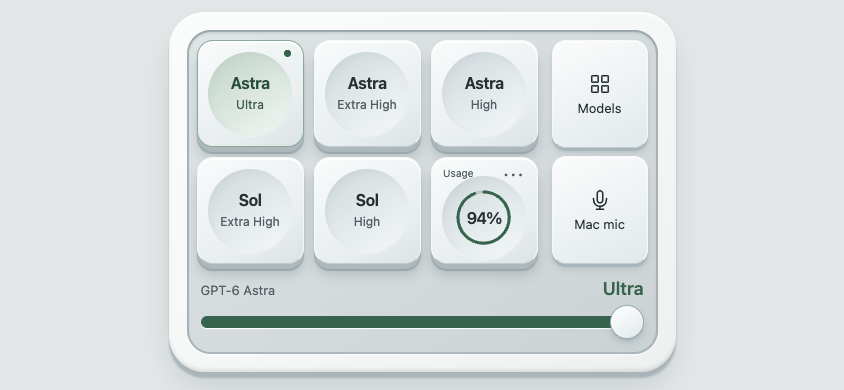
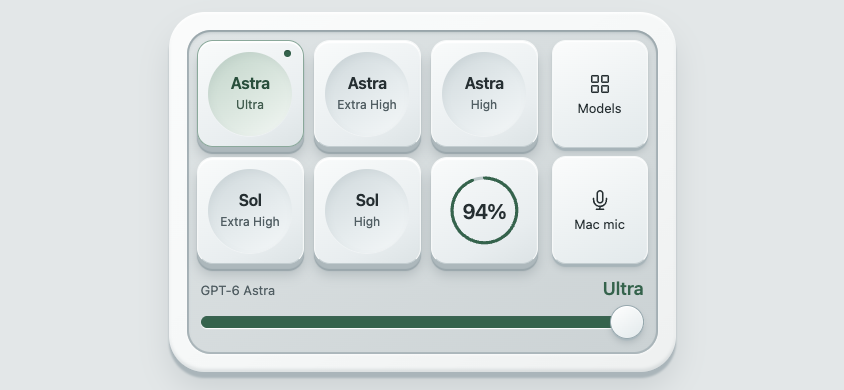
Simplify usage key and expose customizable button settings

Changed region(s): [[0.5237, 0.4308, 0.6161, 0.6154], [0.5545, 0.6154, 0.5853, 0.6462]]

diff --git a/Sources/CodexUsageWeb/Resources/deck.css b/Sources/CodexUsageWeb/Resources/deck.css
@@ -75,7 +75,6 @@ h1, h2, p { margin: 0; }
 .catalog-name { font-size: clamp(.8125rem, 11cqw, 1.25rem); line-height: 1.35; font-weight: 600; overflow-wrap: anywhere; }
 .catalog-key[aria-pressed="true"] .catalog-name { color: #294f3c; }
 .catalog-key[aria-pressed="true"]::after { content: ""; position: absolute; right: 9px; top: 9px; width: 6px; height: 6px; border-radius: 50%; background: var(--green); }
-.key-top { position: absolute; top: 9%; left: 11%; right: 11%; display: flex; align-items: center; justify-content: space-between; gap: 5px; color: var(--secondary); font-size: clamp(.625rem, 7cqw, .875rem); font-variant-numeric: tabular-nums; }
 .key-led { position: absolute; top: 9%; right: 11%; width: 7px; height: 7px; border-radius: 50%; visibility: hidden; }
 .key-model { max-width: 100%; font-size: clamp(1rem, 15cqw, 2.125rem); line-height: 1.15; font-weight: 650; letter-spacing: -.025em; overflow-wrap: anywhere; display: -webkit-box; -webkit-line-clamp: 2; -webkit-box-orient: vertical; overflow: hidden; }
 .key-effort { color: var(--secondary); font-size: clamp(.75rem, 9cqw, 1.0625rem); line-height: 1.3; font-weight: 450; margin-top: 5px; overflow-wrap: anywhere; }
@@ -90,15 +89,14 @@ h1, h2, p { margin: 0; }
 .deck-key[aria-busy="true"]:disabled { opacity: 1; }
 .deck-surface[data-applying="true"] .deck-key:disabled, .deck-surface[data-applying="true"] .dock-button:disabled { opacity: 1; cursor: wait; }
 .deck-key:active:not(:disabled) { box-shadow: 0 2px 1px #adb8bc, 0 3px 1px #98a5aa, 0 5px 7px #40505738, inset 0 2px 1px #fff; }
-.usage-key { padding-top: 22%; }
-.settings-icon { font-size: 1.3rem; line-height: .5; letter-spacing: 2px; }
-.usage-dial { position: relative; width: 68%; aspect-ratio: 1; flex-shrink: 0; }
+.usage-key::before { display: none; }
+.usage-dial { position: relative; width: 86%; aspect-ratio: 1; flex-shrink: 0; }
 .usage-dial svg { display: block; width: 100%; height: 100%; overflow: visible; transform: rotate(-90deg); }
-.usage-dial circle { fill: none; stroke-width: 6; }
+.usage-dial circle { fill: none; stroke-width: 5; }
 .ring-track { stroke: #bbc7c8; }
 .ring-value { stroke: var(--key-accent); stroke-linecap: round; }
 .usage-reading { position: absolute; inset: 0; display: flex; align-items: center; justify-content: center; flex-direction: column; }
-#usage-value { font-size: clamp(1rem, 19cqw, 2.75rem); line-height: 1.15; font-weight: 600; letter-spacing: -.04em; font-variant-numeric: tabular-nums; }
+#usage-value { font-size: clamp(1.25rem, 24cqw, 3rem); line-height: 1.15; font-weight: 600; letter-spacing: -.04em; font-variant-numeric: tabular-nums; }
 .usage-key[data-level="low"] { --key-accent: var(--error); }
 .usage-key[data-level="medium"] { --key-accent: var(--warm); }
 .usage-key[data-level="unknown"] .ring-value { visibility: hidden; }

diff --git a/Sources/CodexUsage/main.swift b/Sources/CodexUsage/main.swift
@@ -211,19 +211,15 @@ final class AppDelegate: NSObject, NSApplicationDelegate {
             menu.addItem(item)
         }
         add(menu, "Enable Direct Switching…", #selector(openDirectSwitching))
-        let presetMenu = NSMenu(title: "Model Presets")
-        presetMenu.autoenablesItems = false
-        add(presetMenu, "Edit Presets…", #selector(editPresets))
-        add(presetMenu, "Reload Presets", #selector(reloadPresets))
+        let editSettings = add(menu, "Edit Button Settings…", #selector(editPresets))
+        editSettings.toolTip = "Open presets.json to edit button names, models, reasoning levels and numbered shortcut mappings."
+        add(menu, "Reload Button Settings", #selector(reloadPresets))
         if let error = presets.error {
             let item = NSMenuItem(title: "Presets error — previous settings kept", action: #selector(showPresetError), keyEquivalent: "")
             item.target = self
             item.toolTip = error
-            presetMenu.addItem(item)
+            menu.addItem(item)
         }
-        let presetSettings = NSMenuItem(title: "Model Presets", action: nil, keyEquivalent: "")
-        presetSettings.submenu = presetMenu
-        menu.addItem(presetSettings)
         add(menu, webDeck.server.isRunning ? "Web Deck · Running…" : "Web Deck…", #selector(openWebDeck))
         menu.addItem(.separator())
         let launch = add(menu, "Launch at Login", #selector(toggleLaunchAtLogin))
@@ -289,7 +285,9 @@ final class AppDelegate: NSObject, NSApplicationDelegate {
     @objc private func editPresets() {
         presets.reload()
         if FileManager.default.fileExists(atPath: presets.url.path) {
-            NSWorkspace.shared.open(presets.url)
+            if !NSWorkspace.shared.open(presets.url) {
+                showAlert("Open button settings", "Open this file in a text editor: \(presets.url.path)")
+            }
         } else { showPresetError() }
         render()
     }
@@ -323,7 +321,9 @@ final class AppDelegate: NSObject, NSApplicationDelegate {
         var payload: [String: Any] = [
             "connected": false, "busy": switching,
             "presets": presets.configuration.presets.sorted(by: { $0.slot < $1.slot }).map {
-                ["slot": $0.slot, "model": $0.model, "effort": $0.effort.rawValue, "title": $0.title] as [String: Any]
+                var preset: [String: Any] = ["slot": $0.slot, "model": $0.model, "effort": $0.effort.rawValue, "title": $0.title]
+                if let label = $0.label { preset["label"] = label }
+                return preset
             }
         ]
         if let snapshot = latestSnapshot {

diff --git a/Sources/CodexUsageWeb/Resources/deck.js b/Sources/CodexUsageWeb/Resources/deck.js
@@ -23,9 +23,10 @@
       const match = /^GPT[- ](\d+(?:\.\d+)?) (Astra|Sol|Luna|Terra)$/i.exec(full);
       return { full, version: match?.[1], family: match?.[2] };
     });
-    return names.map(name => {
+    return names.map((name, index) => {
       const ambiguous = name.family && names.some(other => other.family?.toLowerCase() === name.family.toLowerCase() && other.version !== name.version);
-      return { full: name.full, short: name.family ? name.family + (ambiguous ? ` ${name.version}` : "") : name.full };
+      const label = typeof presets[index].label === "string" ? presets[index].label.trim() : "";
+      return { full: name.full, short: label || (name.family ? name.family + (ambiguous ? ` ${name.version}` : "") : name.full) };
     });
   }
 
@@ -619,7 +620,8 @@
       byID("usage-value").textContent = value;
       byID("usage-ring").setAttribute("stroke-dasharray", `${percent ?? 0} 100`);
       usageKey.dataset.level = percent === null ? "unknown" : percent < 10 ? "low" : percent < 25 ? "medium" : "normal";
-      usageKey.setAttribute("aria-label", `${percent === null ? "Usage unavailable" : `${value} remaining`}. Open deck controls`);
+      usageKey.setAttribute("aria-label", `${percent === null ? "Usage unavailable" : `Usage: ${value} remaining`}. Open usage details`);
+      usageKey.title = percent === null ? "Usage unavailable" : `${value} Codex usage remaining`;
       let message = feedback?.tone !== "success" ? feedback?.message : "";
       if (!message && phase === "offline") message = "Connection lost. Reconnecting…";
       if (!message && phase === "unavailable") message = snapshot?.message || "Open a Codex chat and enable Direct Switching on your Mac.";
@@ -641,7 +643,7 @@
           const name = labels[index];
           const effort = effortLabels[preset.effort] || preset.effort;
           button.append(led, status, element("span", "key-model", name.short), element("span", "key-effort", effort));
-          button.setAttribute("aria-label", `${preset.slot}: ${name.full}, ${effort}`);
+          button.setAttribute("aria-label", `${preset.slot}: ${name.short === name.full ? name.full : `${name.short}, ${name.full}`}, ${effort}`);
           button.title = `${preset.title || `${name.full} · ${effort}`} (⌘⌃${preset.slot})`;
           button.addEventListener("click", () => void controller.applyPreset(preset));
           return { button, status, preset };

diff --git a/Sources/CodexUsageWeb/Resources/index.html b/Sources/CodexUsageWeb/Resources/index.html
@@ -18,8 +18,7 @@
     <div class="deck-surface" data-activity="off" aria-describedby="activity-announcement">
     <div id="key-surface" class="key-surface" data-view="presets">
     <div id="presets" class="deck-grid" aria-label="Model presets and usage" aria-busy="true">
-      <button id="usage-key" type="button" class="deck-key usage-key" aria-label="Usage unavailable. Open deck controls" aria-haspopup="dialog">
-        <span class="key-top"><span>Usage</span><span class="settings-icon" aria-hidden="true">···</span></span>
+      <button id="usage-key" type="button" class="deck-key usage-key" aria-label="Usage unavailable. Open usage details" aria-haspopup="dialog">
         <span class="usage-dial">
           <svg viewBox="0 0 120 120" aria-hidden="true"><circle class="ring-track" cx="60" cy="60" r="52"/><circle id="usage-ring" class="ring-value" cx="60" cy="60" r="52" pathLength="100" stroke-dasharray="0 100"/></svg>
           <span class="usage-reading"><span id="usage-value">—</span></span>
@@ -65,7 +64,7 @@
     <p id="requests-status" class="secondary" role="status"></p>
   </dialog>
   <dialog id="controls" aria-labelledby="controls-title">
-    <div class="dialog-heading"><h2 id="controls-title">Deck controls</h2><button id="close-controls" type="button" aria-label="Close controls">×</button></div>
+    <div class="dialog-heading"><h2 id="controls-title">Usage</h2><button id="close-controls" type="button" aria-label="Close usage details">×</button></div>
     <p id="connection-label" class="secondary">Connecting</p>
     <p class="field-label">Active chat</p><p id="target-title">Waiting for Codex…</p>
     <p id="chat-activity" class="secondary">No connected chat</p>

diff --git a/Tests/CodexUsageTests/ModelPresetTests.swift b/Tests/CodexUsageTests/ModelPresetTests.swift
@@ -92,3 +92,28 @@ func powerAnnouncementConfirmsTheExactModelAndEffort() {
     #expect(PickerLabels.selection(in: ["6.1 Sol High", "6.1 Sol Extra High"], model: "GPT-6.1 Sol") == nil)
     #expect(PickerLabels.selection(in: ["GPT-6.1 Sol preview High"], model: "GPT-6.1 Sol") == nil)
 }
+
+@Test func customButtonLabelsRoundTripWithoutChangingModelOrShortcut() throws {
+    let data = try PresetConfiguration.defaults.encoded()
+    var object = try #require(JSONSerialization.jsonObject(with: data) as? [String: Any])
+    var rows = try #require(object["presets"] as? [[String: Any]])
+    rows[0]["label"] = "Focus"
+    object["presets"] = rows
+    let configuration = try PresetConfiguration.decode(JSONSerialization.data(withJSONObject: object))
+    #expect(configuration.presets[0].label == "Focus")
+    #expect(configuration.presets[0].model == "GPT-6 Astra")
+    #expect(configuration.presets[0].effort == .ultra)
+    #expect(configuration.presets[0].slot == 1)
+    #expect(configuration.presets[1].label == nil)
+    #expect(try PresetConfiguration.decode(configuration.encoded()) == configuration)
+}
+
+@Test(arguments: ["", " Focus", "Focus ", "Focus\nNow", "Focus\tNow", String(repeating: "x", count: 33)])
+func malformedButtonLabelsKeepTheConfigurationInvalid(_ label: String) throws {
+    var object = try #require(JSONSerialization.jsonObject(with: PresetConfiguration.defaults.encoded()) as? [String: Any])
+    var rows = try #require(object["presets"] as? [[String: Any]])
+    rows[0]["label"] = label
+    object["presets"] = rows
+    let data = try JSONSerialization.data(withJSONObject: object)
+    #expect(throws: PresetError.self) { try PresetConfiguration.decode(data) }
+}

diff --git a/Sources/CodexUsageCore/ModelPresets.swift b/Sources/CodexUsageCore/ModelPresets.swift
@@ -4,6 +4,14 @@ public struct ModelPreset: Codable, Equatable, Sendable {
     public let slot: Int
     public let model: String
     public let effort: ReasoningEffort
+    public let label: String?
+
+    public init(slot: Int, model: String, effort: ReasoningEffort, label: String? = nil) {
+        self.slot = slot
+        self.model = model
+        self.effort = effort
+        self.label = label
+    }
 
     public var title: String { "\(model) · \(effort.title)" }
 }
@@ -46,6 +54,13 @@ public struct PresetConfiguration: Codable, Equatable, Sendable {
             throw PresetError.invalid("Provide slots 1 through 5 exactly once. Legacy files with slots 1, 2, and 3 are upgraded automatically.")
         }
         for preset in config.presets {
+            if let label = preset.label {
+                guard !label.isEmpty, label.count <= 32,
+                      label == label.trimmingCharacters(in: .whitespacesAndNewlines),
+                      !label.unicodeScalars.contains(where: { CharacterSet.controlCharacters.contains($0) }) else {
+                    throw PresetError.invalid("Slot \(preset.slot): label must be 1–32 characters, without surrounding spaces or control characters. Omit label to use the model name.")
+                }
+            }
             guard !preset.model.trimmingCharacters(in: .whitespacesAndNewlines).isEmpty,
                   preset.model.count <= 120, !PickerLabels.normalized(preset.model).isEmpty,
                   !preset.model.contains(where: { $0.isNewline }),

diff --git a/README.md b/README.md
@@ -27,7 +27,7 @@ The deck also supports Mac dictation and responses to the active chat's supporte
 
 <img src="docs/app-menu.png" alt="Codex Deck menu grouping five shortcuts with separate preset settings and automatic launch options" width="560" />
 
-User-provided screenshot of the running 0.5.0 app, under its previous Codex-Usage name. All five shortcuts form one group; preset editing lives in a separate submenu. A single weekly quota is labeled `Usage` instead of `1w`.
+User-provided screenshot of the running 0.5.0 app, under its previous Codex-Usage name. All five shortcuts form one group. In the current app, **Edit Button Settings…** opens the JSON directly from the main menu; the older submenu shown here has been removed. A single weekly quota is labeled `Usage` instead of `1w`.
 
 ### Menu bar usage
 
@@ -47,7 +47,7 @@ User-provided screenshot of a weekly-only account: the green ring shows 94% rema
 
 <img src="docs/web-deck-questions.png" alt="A pending question with selectable answers and a request-specific text field" width="500" />
 
-Version 0.9.4, rendered with synthetic offline fixture data. These landscape, portrait, model catalog, slider, and question previews illustrate the interface; they are not photos of a phone controlling live Codex. The recording state, requests, and quota in these examples are simulated.
+Version 0.9.5, rendered with synthetic offline fixture data. These landscape, portrait, model catalog, slider, and question previews illustrate the interface; they are not photos of a phone controlling live Codex. The recording state, requests, and quota in these examples are simulated.
 
 ---
 
@@ -134,17 +134,17 @@ Turn off **Open Codex Automatically** to start only the usage companion. Turning
 2. Connect the Mac and phone to the **same trusted private Wi-Fi**. Keep the Mac awake and Codex Deck running.
 3. Choose **Web Deck… → Start Web Deck** in the Mac menu. This starts a small local HTTP server; it is off by default and does not start automatically at login.
 4. Scan the QR code with your phone, or choose **Copy Pairing Link** and open that complete link in the phone's browser. The bare IP address opens the page but does not pair a device.
-5. Tap **Usage** to review the active chat, close the controls, then tap a model key. The page uses the first five configured presets in slot order from the same `presets.json` as the keyboard shortcuts. A key turns green after the host confirms the selection.
+5. Tap the **percentage ring (Usage)** to review the active chat, close the details, then tap a model key. The page uses the first five configured presets in slot order from the same `presets.json` as the keyboard shortcuts. A key turns green after the host confirms the selection.
 6. The preset view uses **3 × 2 landscape** or **2 × 3 portrait**. The model catalog uses four columns in landscape and two in portrait. Five square model keys and a usage tile form a centered white-and-gray physical keypad, sized to fit the screen with the control strip. The effort slider stays directly below the keys. **Models / Presets**, **Mac mic**, and waiting **Requests** sit beside the keys in landscape or below the slider in portrait, without a page header.
 7. Tap **Usage → Enter full screen** in supported browsers. On iPhone, use Safari's **Share → Add to Home Screen** and open the saved deck; pair again if that standalone browser has a separate session.
 
 White keys have a recessed face, gray raised edge, short press effect, and an always-enabled click from a bundled audio file; there is no sound toggle. A supported-device vibration accompanies the press. Playback starts from your tap and does not run continuously. The page cannot override device volume, hardware mute, or browser audio restrictions. If you hear nothing, check the media volume and browser sound settings. Reduced-motion preferences disable key movement; unsupported sound, vibration, or fullscreen does not block the controls.
 
-Preset keys show the **model family prominently** and the **reasoning level beneath it**: `Astra / Ultra`, `Astra / Extra High`, `Astra / High`, `Sol / Extra High`, and `Sol / High`. There are no printed slot numbers or inactive indicator dots; only the selected key shows its small indicator. Full model names remain in **Models**, the slider, tooltips, and accessible labels. If your presets contain different versions of the same family, the keys include the version (`Sol 6`, `Sol 6.1`). Custom model names are preserved. These shorter labels do not change saved IDs, efforts, or keyboard mappings.
+Preset keys show the **model family prominently** and the **reasoning level beneath it**: `Astra / Ultra`, `Astra / Extra High`, `Astra / High`, `Sol / Extra High`, and `Sol / High`. There are no printed slot numbers or inactive indicator dots; only the selected key shows its small indicator. Full model names remain in **Models**, the slider, tooltips, and accessible labels. If your presets contain different versions of the same family, the keys include the version (`Sol 6`, `Sol 6.1`). Custom model names are preserved. These shorter labels do not change saved IDs, efforts, or keyboard mappings. Set an optional `label` in JSON to use your own button name, such as `Focus`; the reasoning level remains visible below it.
 
 The 0.9.1 tone has a soft attack and a rounded 180 ms tail. Rapid button presses can overlap briefly instead of cutting off the previous tone; the slider plays once on release rather than at every crossed step. The original sound can be regenerated with `python3 Scripts/generate_feedback_sound.py`.
 
-The sixth tile shows **remaining quota as a percentage only** inside its ring, with no “remaining” label underneath. It prioritizes the weekly window (otherwise the first available window). Tap **Usage** for full usage details and reset information. Missing or expired quota, or a lost connection, displays **—**. Connection and error notices appear only when needed.
+The sixth tile centers **remaining quota as a percentage only** inside a larger ring. It has no `Usage` caption, ellipsis, or “remaining” text. Tap anywhere on the tile for **Usage** details and reset information; button settings live in the Mac menu. It prioritizes the weekly window (otherwise the first available window). Missing or expired quota, or a lost connection, displays **—**. Connection and error notices appear only when needed.
 
 A pairing link expires after **5 minutes** and can be used **once**. Choose **New Pairing Link** for another device or an expired link; existing paired devices stay connected. Each paired browser session lasts up to **8 hours**. Keep pairing links private.
 
@@ -174,7 +174,7 @@ Tap **Models** to replace the preset keys with the active Codex composer’s mod
 
 The same button now reads **Presets**. Tap it, or press Escape, to return to your five saved combinations and usage ring. Returning changes only the view; it does not restore an earlier model or edit `presets.json`. There are no sets or pages to configure. The effort slider and Mac mic remain available in both views. Longer model catalogs scroll inside the deck.
 
-This changes the current chat, not `presets.json`. To make a choice one of the five permanent keys, use **Model Presets → Edit Presets…** on the Mac as described below.
+This changes the current chat, not `presets.json`. To make a choice one of the five permanent keys, use **Edit Button Settings…** on the Mac as described below.
 
 #### Use the Mac microphone
 
@@ -202,18 +202,18 @@ The phone connection is **HTTP on the local network**, not an Internet service. 
 | Refresh Usage | Scan local usage records immediately. |
 | Five model presets | Apply that preset to the current chat; Codex must be foreground. |
 | Enable Direct Switching… | Set up the connection by restarting Codex. |
-| Model Presets → Edit Presets… | Open the JSON configuration. |
-| Model Presets → Reload Presets | Read saved JSON and refresh the menu. |
+| Edit Button Settings… | Open JSON directly to edit button names, models, reasoning levels, and numbered mappings. |
+| Reload Button Settings | Read saved JSON and refresh the menu. |
 | Web Deck… | Start or stop phone access, show a pairing QR/link, and disconnect devices. |
 | Launch at Login | Toggle companion startup at login. |
 | Open Codex Automatically | Open a closed Codex app with direct switching when the companion starts; requires initial setup. |
 | Quit Codex Deck | Quit the companion. To close debugging too, quit Codex and relaunch it normally. |
 
-## 4. Customize your models
+## 4. Customize buttons and shortcuts
 
-1. Choose **Model Presets → Edit Presets…**.
-2. Change `model` and `effort` in a text editor. Use `slot` to choose the shortcut number.
-3. Save. The next shortcut automatically reloads the file. Choose **Model Presets → Reload Presets** to update the menu immediately.
+1. Choose **Edit Button Settings…**.
+2. Change `model` and `effort` in a text editor. Use `slot` for both the deck position and shortcut number; optionally add `label` for the name on the web key.
+3. Save. The next shortcut automatically reloads the file, and the visible Web Deck picks it up on its next five-second refresh. Choose **Reload Button Settings** to update the Mac menu immediately.
 
 The file is created at:
 
@@ -245,9 +245,10 @@ Save as plain text and keep the filename `presets.json`. The complete default co
 | Field | Rule |
 | --- | --- |
 | `version` | Keep `1`. This is the configuration format, not the app version. |
-| `slot` | Include numbers `1` through `5` exactly once. `slot: 4` means `⌘⌃4`. Array order does not matter. |
+| `slot` | Include numbers `1` through `5` exactly once. `slot: 4` means the fourth deck key and `⌘⌃4`. Array order does not matter. To exchange keys, exchange their slot numbers. |
 | `model` | A display name or ID from your Codex catalog, such as `GPT-6 Astra`, `gpt-6-astra`, `GPT-6.1 Sol`, or `gpt-6.1-sol`. |
 | `effort` | A supported value: `none`, `minimal`, `low`, `medium`, `high`, `xhigh`, `max`, or `ultra`. |
+| `label` | Optional web key name, 1–32 characters with no surrounding whitespace or control characters. Omit it for the automatic model-family label. |
 
 **Extra High is `xhigh`**; Ultra is `ultra`. Do not enter `extra high` in JSON.
 Model matching ignores the `GPT-` prefix, case, spacing, and punctuation, but must identify exactly one catalog entry.
@@ -258,6 +259,14 @@ For example, replace only slot 5's entry to use GPT-6 Luna / High:
 ```json
 { "slot": 5, "model": "GPT-6 Luna", "effort": "high" }
 ```
+
+To call the first web key **Focus** while keeping Astra Ultra and `⌘⌃1`, replace its entry with:
+
+```json
+{ "slot": 1, "model": "GPT-6 Astra", "effort": "ultra", "label": "Focus" }
+```
+
+The key reads **Focus / Ultra**. Its tooltip, accessible name, and the Mac menu still identify the actual model. A label only changes display text; it never changes the model sent to Codex. Short names fit best.
 
 To restore defaults, replace your file with the complete JSON above or [presets.example.json](presets.example.json), then save.
 Use the [JSON Schema](docs/presets.schema.json) for editor validation and completion.
@@ -271,7 +280,7 @@ Before migrating, the app saves `presets.before-five-slots-*.json` beside the or
 - Existing five-slot files are unchanged.
 
 Invalid JSON leaves the last valid settings active and adds a menu error. On a fresh launch with an invalid file, defaults remain active.
-JSON cannot contain comments or trailing commas. The Command–Control modifier combination is fixed; JSON customizes each number's model and effort.
+JSON cannot contain comments or trailing commas. The Command–Control modifier combination is fixed; JSON customizes each number's model, effort, and optional web label. These five keys apply model presets; they do not run arbitrary macros.
 
 Validate syntax and slots without changing a model:
 
@@ -310,7 +319,7 @@ The usage optimization addresses repeated whole-file `String.split`/`contains` w
 | Unsupported model or effort | Compare JSON with your catalog. If Ultra is unavailable, explicitly choose a supported effort. |
 | Confirmation required | Complete Codex's own model confirmation, then retry. |
 | Unconfirmed change / timeout | Inspect model and effort before sending. The update may have happened before verification failed. |
-| Presets error | Check quotes, commas, duplicate slots, and effort spelling; choose Reload Presets. |
+| Presets error | Check quotes, commas, duplicate slots, and effort spelling; choose Reload Button Settings. |
 | Stale quota / `--` | A new local Codex usage event is needed; see the usage section. |
 | Phone cannot open Web Deck | Check the same private Wi-Fi, Mac awake, server running, macOS local-network/firewall permission, and Wi-Fi client isolation. Stop/start after an IP change. |
 | Phone asks to pair again | Use a new full pairing link. Links last 5 minutes/one use; sessions last 8 hours and end on stop/restart/revocation. |
@@ -344,6 +353,8 @@ Version 0.7.0 added six tactile keys and landscape/fullscreen support. Version *
 Version **0.8.2** replaces the rotary dial with a horizontal volume-style effort slider. Drag/release, touch, keyboard input, and five viewport sizes were checked in an offline browser.
 Version **0.9.0** renames the app to Codex Deck and adds an inline **Models / Presets** view switch. The model keys show names only; selecting one keeps a supported effort. Browser fixtures verify view switching, model selection, slider behavior, and disconnected states.
 Version **0.9.1** adds a softer original key tone, immediate pending selection, continuous slider movement, and a single latest-value effort queue. Successful model writes use the host-verified acknowledgement immediately and resume normal polling, eliminating the extra old-state repaint and read. Slow-response, failure, target-change, and keyboard cases were checked with isolated fixtures.
+
+Version **0.9.5** centers a larger percentage ring on the Usage key and removes its caption and ellipsis. **Edit Button Settings…** now opens JSON directly from the main Mac menu, and optional `label` values customize web key names.
 
 Version **0.9.4** simplifies preset faces to a prominent model family and smaller reasoning level, removes slot numbers and inactive dots, and keeps version labels when needed to distinguish presets. Pointer/touch slider focus has no enclosing outline; keyboard focus remains visible. The English and Korean guides now explain the preset workflow and the motivation behind the project.
 

diff --git a/DESIGN.md b/DESIGN.md
@@ -101,7 +101,7 @@ components:
 
 The user's white Codex Micro photo sets the material direction: pale square keycaps, shallow dished faces, softly beveled edges, and visible key thickness on a cool gray board. Charcoal labels and icons stay clear against the light surfaces. Depth communicates pressable controls without adding branding or a persistent header.
 
-Scope: `Sources/CodexUsageWeb/Resources/`. The native AppKit menu retains its platform styling. These tokens describe the implemented 0.9.4 web surface; its stylesheet remains the implementation source.
+Scope: `Sources/CodexUsageWeb/Resources/`. The native AppKit menu retains its platform styling. These tokens describe the implemented 0.9.5 web surface; its stylesheet remains the implementation source.
 
 **Key Characteristics:**
 - Square white keys with recessed circular faces.
@@ -134,7 +134,7 @@ Keys retain a square silhouette with softly rounded corners. Each dished face is
 ## Components
 
 - **Preset keys:** prominent model family above smaller effort, with a small indicator only for the selected key. No printed slot number. Confirmed selection changes the recess, label, border, and LED; pending uses amber. Preserve selected, busy, disabled, and focus states. Never show success before host confirmation.
-- **Usage key:** a circular track with the percentage only; no “remaining” caption. Unknown, expired, or offline data uses an em dash. Opens the native dialog for the active chat, usage details, fullscreen, refresh, and disconnect.
+- **Usage key:** a larger centered circular track with the percentage only; no Usage caption, ellipsis, “remaining” text, or second recessed circle. Keep the physical square keycap. Unknown, expired, or offline data uses an em dash. Opens the native dialog for the active chat, usage details, fullscreen, refresh, and disconnect.
 - **Model controls:** an inline catalog of model-name keys toggled by Models / Presets and an always-visible horizontal range input directly on the deck, labeled with the active model and effort. Keep native touch and keyboard semantics. Preset confirmation synchronizes the slider. Pointer movement previews and release changes only the active model’s effort; saved presets remain unchanged. Choosing a different model applies a supported effort.
 - **Dock and requests:** Model, Mac mic, and a Requests control only when supported requests are waiting. Recording has an explicit red state. Request dialogs show relevant options and text fields with clear Allow once/Deny treatments.
 - **Feedback:** visible focus outline, dismissible screen-reader-announced notices, short bundled click audio and supported-device vibration after gestures. Sound has no page toggle; hardware/browser mute remains authoritative. No idle animation or continuous audio.
@@ -157,3 +157,5 @@ In 0.9.2 the outer frame is `clamp(22px, 4vmin, 38px)` wide, with a separate `cl
 The effort range has no enclosing border, focus outline, or tap highlight during pointer/touch use, including after release. Only keyboard focus receives the existing focus outline. Preserve the thumb's physical edge and the track's recessed material.
 
 In 0.9.4, the five preset labels use Astra / Ultra, Astra / Extra High, Astra / High, Sol / Extra High, and Sol / High. Keep full display names in the catalog, slider, title and accessible name. For same-family version collisions use labels such as Sol 6 and Sol 6.1; do not abbreviate custom model names. Long custom names clamp visually to two lines while the full identity remains accessible. The primary model label uses ink / selected-ink, and the smaller effort uses secondary / selected-secondary.
+
+In 0.9.5, an optional JSON `label` overrides the web preset name; the effort remains below it and the actual model remains in its tooltip and accessible name. The native menu opens JSON directly through Edit Button Settings… and keeps full model names in its preset entries.

diff --git a/PRODUCT.md b/PRODUCT.md
@@ -31,7 +31,7 @@ The native companion remains the host and source of presets and usage. A browser
 
 ## Working assumptions
 
-The user's Stream Deck reference sets a compact button-grid interaction, and their white Codex Micro photo sets the visual direction: pale square keycaps with recessed circular faces, light gray framing, soft bevels, visible thickness, and charcoal labels and icons. Five model keys and one circular usage tile form a centered 3 × 2 grid in landscape or 2 × 3 grid in portrait. The keys use the largest square size that fits alongside the effort bar and compact model/mic/request dock. In landscape the dock sits to the right of the keys and the slider spans the bottom; portrait keeps the slider and dock below the keys. The ring displays a percentage without a remaining caption. Keep English interface labels and physical press feedback without a persistent header, explanation, or extra branding. The native macOS menu retains its platform styling. Micro-style interactions are implemented through the existing direct bridge; no physical Micro, HID emulation, or feature-gate overrides are part of the product.
+The user's Stream Deck reference sets a compact button-grid interaction, and their white Codex Micro photo sets the visual direction: pale square keycaps with recessed circular faces, light gray framing, soft bevels, visible thickness, and charcoal labels and icons. Five model keys and one circular usage tile form a centered 3 × 2 grid in landscape or 2 × 3 grid in portrait. The keys use the largest square size that fits alongside the effort bar and compact model/mic/request dock. In landscape the dock sits to the right of the keys and the slider spans the bottom; portrait keeps the slider and dock below the keys. The larger ring sits centered in its square key and displays only a percentage, with no Usage caption, ellipsis, or second recessed circle. Tapping it opens usage details. Button settings open directly from the Mac menu as JSON: slot maps position and shortcut, model and effort select the combination, and optional label customizes the web name. Keep English interface labels and physical press feedback without a persistent header, explanation, or extra branding. The native macOS menu retains its platform styling. Micro-style interactions are implemented through the existing direct bridge; no physical Micro, HID emulation, or feature-gate overrides are part of the product.
 
 The Models button replaces preset keys with model-name buttons and becomes Presets to return. No sets or arbitrary Mac shortcuts. Returning changes only the view. The slider stays visible in both views; model selection preserves the current effort when supported, otherwise High or the first supported effort.
 

diff --git a/docs/codex-micro.md b/docs/codex-micro.md
@@ -9,7 +9,7 @@ For installation, pairing, and JSON preset editing, use the [English README](../
 | Control | How to use it | Scope |
 | --- | --- | --- |
 | Five model keys | Read the model family above its reasoning level. Tap a key; wait for the confirmed selection. | Applies the corresponding `presets.json` model and effort to the active saved chat. |
-| Usage | Read the percentage in the ring; tap for details, refresh, fullscreen, or disconnect. | Remaining quota, preferring the weekly window. Missing/expired/offline data is `—`. |
+| Usage | Read the centered percentage ring, without a caption or ellipsis; tap for details, refresh, fullscreen, or disconnect. | Remaining quota, preferring the weekly window. Missing/expired/offline data is `—`. |
 | Effort slider | Drag the bar directly on the deck, then release. | Keeps the current model, changing only its effort. For example: preset 1 Astra Ultra → slider High = Astra High. Saved presets stay unchanged. |
 | Models / Presets | Toggle between model-name keys and the five saved presets. Tap a model to apply it. | Keeps a supported current effort, falling back to High or the first supported level. Returning to Presets changes only the view. |
 | Mac mic / Stop mic | Start dictation; stop when finished. | Uses the Mac microphone and inserts the transcript into the Mac composer without sending. |
@@ -25,7 +25,7 @@ The deck reads the visible composer’s model options instead of assuming that e
 
 The requested selection stays visible as pending while the Mac responds. Its acknowledgement confirms that same position without reverting to the previous state. While a model write is pending, further slider releases replace a single trailing value; they never start parallel writes. Failure or a changed chat cancels the queue. A soft original tone plays on a button press or slider release, with no per-step tick during dragging.
 
-These controls change subsequent turns of the current chat. They do not restart a running response, send a prompt, or rewrite the five configured presets. Use **Model Presets → Edit Presets…** on the Mac to save a recurring combination.
+These controls change subsequent turns of the current chat. They do not restart a running response, send a prompt, or rewrite the five configured presets. Use **Edit Button Settings…** on the Mac to save a recurring combination. Each `slot` maps a deck position and Command–Control number; optional `label` names the web key without changing its model or effort.
 
 The bridge requires one unambiguous saved chat with its composer visible. If the target or catalog changes while a control is being used, refresh and check the target in **Usage** before retrying.
 
